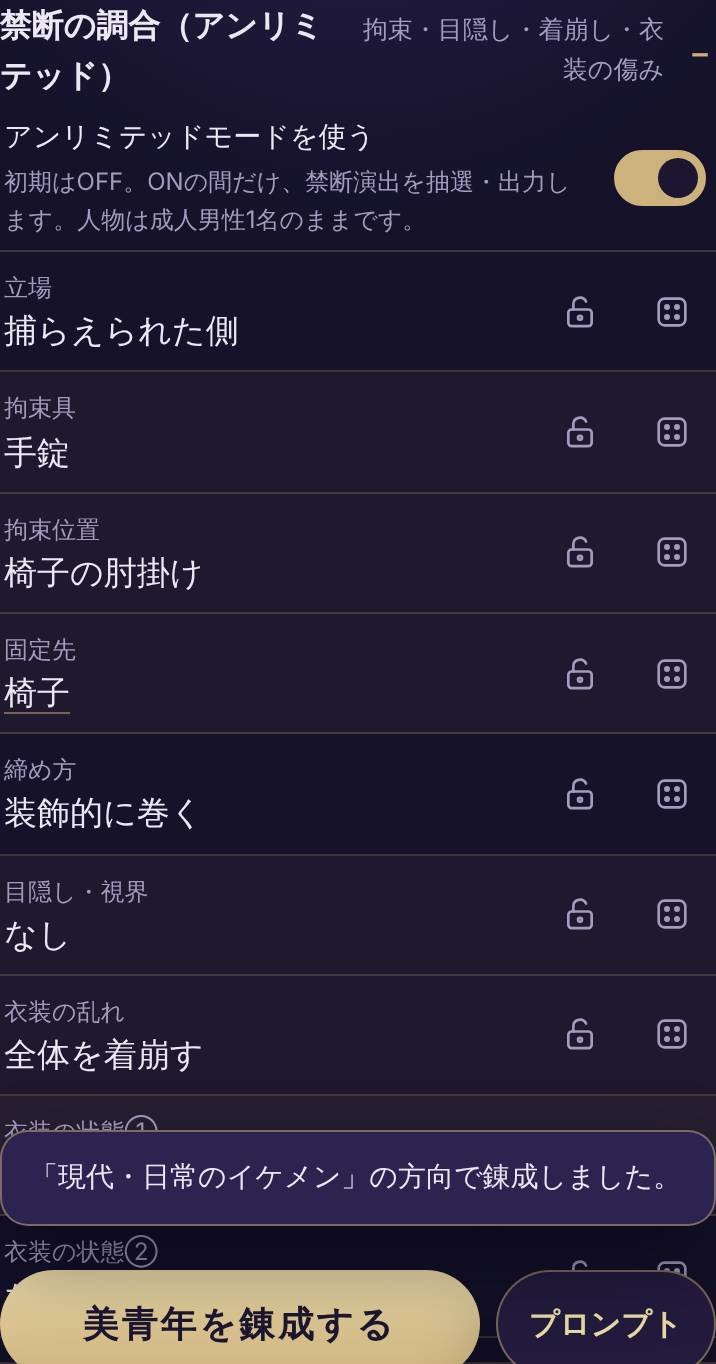
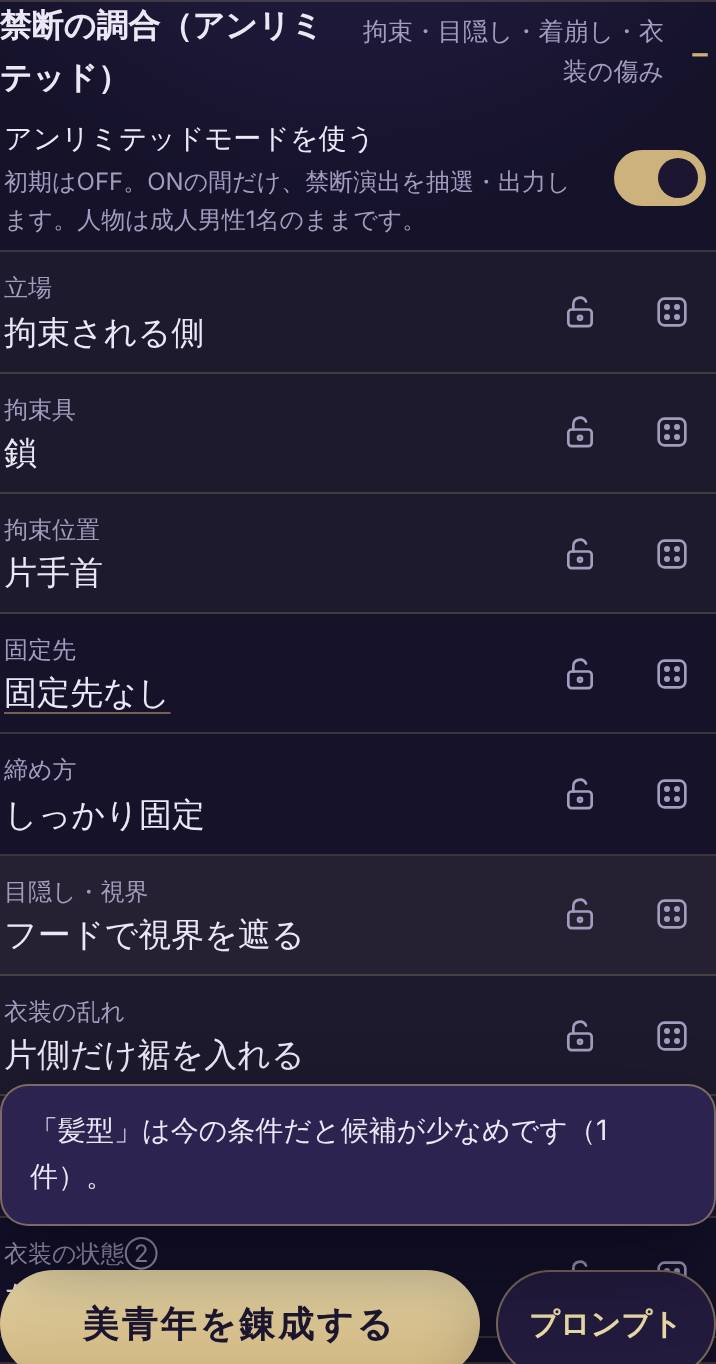
禁断の調合：膝立ち・うつ伏せの拘束構図、腹がのぞく着崩し、屋内限定と素材の混在防止
- 拘束構図に膝立ち4種・うつ伏せ3種（ポーズ構図工房の膝立ち・lying prone を参考）。構図は複数の拘束位置に対応
- 着崩しに「裾から腹がちらり」「下のボタンが外れて腹がのぞく」「腕を上げて服がずり上がる」（腕を上げるポーズのときだけ）
- 頭上で吊る拘束・頭上の固定具は屋内かシンプル背景だけ
- 衣装の鎖・ハーネス類と別の拘束具を同時に選ばない。ネガティブに選ばなかった素材を入れ、正の側に one clear restraint setup
- 先読みを着崩し・表情→ポーズにも広げ、ポーズが決まらない抽選をなくした。テスト171件

Claude-Session: https://claude.ai/code/session_015Hxd36561ZqUmFyAM3FPr5

diff --git a/src/data/forbidden.ts b/src/data/forbidden.ts
@@ -113,7 +113,11 @@ export const DISARRAY: Option[] = [
   d('coat_open', 'コートを開ける', 'coat worn open', 'f_coat'),
   d('layer_open', '一枚を開いたまま', 'one layer hanging open', 'f_layered'),
   d('hood_up', 'フードを被る', 'hood up', 'f_hood'),
-  d('disheveled', '全体を着崩す', 'disheveled clothes', '')
+  d('disheveled', '全体を着崩す', 'disheveled clothes', ''),
+  // 腹がちらりと見える（露出はここまで。f_top は裾のある上衣）
+  d('midriff_peek', '裾から腹がちらり', 'midriff peek', 'f_top'),
+  d('bottom_unbuttoned', '下のボタンが外れて腹がのぞく', 'bottom buttons undone, midriff peek', 'f_shirt'),
+  d('riding_up', '腕を上げて服がずり上がる', 'shirt riding up, midriff peek', 'f_top', { tags: ['arms_up'] })
 ];
 
 // ---------------- 衣装の状態・加工（最大2件） ----------------
@@ -153,16 +157,25 @@ export const WEAR_CATS: Category[] = [{ id: 'dirt', ja: '汚れ' }, { id: 'damag
 
 // ---------------- 拘束の構図（ポーズに追加。拘束位置を hard 条件にする）----------------
 // 姿勢の句だけを持ち、拘束の描写は拘束位置・拘束具の側で出す（重複させない）。
-export const BOUND_POSES = [
-  { id: 'bound_front_stand', ja: '両手首を前で縛られて立つ', en: 'standing, looking at viewer', posture: 'standing', minShot: 2, gaze: true, bind: 'wrists_front' },
-  { id: 'bound_behind_lookback', ja: '後ろ手に縛られ、肩越しに振り返る', en: 'from behind, looking back over shoulder', posture: 'standing', minShot: 2, gaze: true, bind: 'wrists_behind' },
-  { id: 'bound_front_kneel', ja: '両手首を前で縛られて膝立ち', en: 'kneeling, on knees, bound hands resting near the lap', posture: 'kneeling', minShot: 3, gaze: true, bind: 'wrists_front' },
-  { id: 'bound_chair', ja: '椅子に座り、両手首を肘掛けへ固定', en: 'sitting on chair, both hands and both armrests clearly visible', posture: 'sitting', minShot: 3, gaze: true, bind: 'armrests' },
-  { id: 'wall_chain_lookback', ja: '片手首を壁へつながれて振り返る', en: 'looking back, restrained hand raised toward the wall', posture: 'standing', minShot: 2, gaze: true, bind: 'one_wrist' },
-  { id: 'bound_overhead_stand', ja: '両手首を頭上で固定されて立つ', en: 'standing, arms up', posture: 'standing', minShot: 2, gaze: true, bind: 'wrists_overhead' },
-  { id: 'ankles_floor', ja: '足首を縛られて床に座る', en: 'sitting on floor, knees up', posture: 'sitting', minShot: 4, gaze: true, bind: 'ankles' },
-  { id: 'chain_torso_stand', ja: '腕と胴体へ緩く巻いた演出的な立ち姿', en: 'standing, dramatic pose', posture: 'standing', minShot: 2, gaze: true, bind: 'torso_arms' }
-] as const;
+export const BOUND_POSES: Array<{ id: string; ja: string; en: string; posture: string; minShot: number; gaze: boolean; bind: string[]; armsUp?: boolean }> = [
+  { id: 'bound_front_stand', ja: '両手首を前で縛られて立つ', en: 'standing, looking at viewer', posture: 'standing', minShot: 2, gaze: true, bind: ['wrists_front'] },
+  { id: 'bound_behind_lookback', ja: '後ろ手に縛られ、肩越しに振り返る', en: 'from behind, looking back over shoulder', posture: 'standing', minShot: 2, gaze: true, bind: ['wrists_behind'] },
+  { id: 'bound_front_kneel', ja: '両手首を前で縛られて膝立ち', en: 'kneeling, on knees, bound hands resting near the lap', posture: 'kneeling', minShot: 3, gaze: true, bind: ['wrists_front'] },
+  { id: 'bound_chair', ja: '椅子に座り、両手首を肘掛けへ固定', en: 'sitting on chair, both hands and both armrests clearly visible', posture: 'sitting', minShot: 3, gaze: true, bind: ['armrests'] },
+  { id: 'wall_chain_lookback', ja: '片手首を壁へつながれて振り返る', en: 'looking back, restrained hand raised toward the wall', posture: 'standing', minShot: 2, gaze: true, bind: ['one_wrist'] },
+  { id: 'bound_overhead_stand', ja: '両手首を頭上で固定されて立つ', en: 'standing, arms up', posture: 'standing', minShot: 2, gaze: true, bind: ['wrists_overhead'], armsUp: true },
+  { id: 'ankles_floor', ja: '足首を縛られて床に座る', en: 'sitting on floor, knees up', posture: 'sitting', minShot: 4, gaze: true, bind: ['ankles'] },
+  { id: 'chain_torso_stand', ja: '腕と胴体へ緩く巻いた演出的な立ち姿', en: 'standing, dramatic pose', posture: 'standing', minShot: 2, gaze: true, bind: ['torso_arms'] },
+  // 膝立ち（ポーズ構図工房の「膝立ち：上体を両膝の上に起こす」を参考）
+  { id: 'kneel_behind', ja: '後ろ手に縛られて膝立ち', en: 'upright kneeling posture, torso lifted above both knees, looking at viewer', posture: 'kneeling', minShot: 3, gaze: true, bind: ['wrists_behind'] },
+  { id: 'kneel_overhead', ja: '両手首を頭上で吊られて膝立ち', en: 'upright kneeling posture, arms raised above the head, both knees on the floor', posture: 'kneeling', minShot: 3, gaze: true, bind: ['wrists_overhead'], armsUp: true },
+  { id: 'kneel_look_up', ja: '膝をつき、縛られたまま見上げる', en: 'kneeling, looking up at viewer', posture: 'kneeling', minShot: 2, gaze: true, bind: ['wrists_front', 'wrists_behind', 'torso_arms'] },
+  { id: 'kneel_head_down', ja: '膝をつき、縛られて項垂れる', en: 'kneeling, sitting on heels, head lowered, hair falling forward', posture: 'kneeling', minShot: 3, gaze: false, bind: ['wrists_front', 'wrists_behind', 'torso_arms'] },
+  // うつ伏せ（ポーズ構図工房の lying prone を参考。縛った腕では上体を支えない）
+  { id: 'prone_behind', ja: '後ろ手に縛られてうつ伏せ', en: 'lying prone, on stomach, cheek near the floor, head turned toward viewer', posture: 'lying', minShot: 4, gaze: true, bind: ['wrists_behind'] },
+  { id: 'prone_reach', ja: 'うつ伏せで、縛られた両手を前へ投げ出す', en: 'lying prone, on stomach, bound hands stretched forward on the floor, head raised', posture: 'lying', minShot: 3, gaze: true, bind: ['wrists_front'] },
+  { id: 'prone_ankles', ja: '足首を縛られ、うつ伏せで肘をつく', en: 'lying prone, on stomach, propped up on elbows', posture: 'lying', minShot: 4, gaze: true, bind: ['ankles'] }
+];
 
 // ---------------- 表情（立場に合わせて追加。立場がOFF＝なしでは出ない）----------------
 export const FORBIDDEN_EXPRESSIONS: Array<{ id: string; ja: string; en: string; side: 'captive' | 'captor' }> = [

diff --git a/src/prompts/build.ts b/src/prompts/build.ts
@@ -70,6 +70,11 @@ const EYE_WORDS = /\b(eyes?|[a-z]+-eyed|eyelash(es)?|lashes|eyelids?|sanpaku|jit
 /** 目隠しの句そのもの（外さない） */
 const OWN_EYE = /(blindfold|over (the |one )?eyes?|closed eyes|downcast eyes)/i;
 const BOUND_NEGATIVE = ['blood', 'wounds', 'bruises', 'restraints around neck', 'extra hands', 'missing fingers', 'fused fingers'];
+/** 拘束具の素材どうしが混ざらないよう、選ばなかった素材をネガティブに入れる */
+const MATERIAL_NEGATIVE: Array<[RegExp, string]> = [
+  [/^(rope|silk_cord)$/, 'rope'], [/chain/, 'chains'], [/^cuffs$/, 'handcuffs'], [/^straps$/, 'leather straps'], [/^ribbon$/, 'ribbon'],
+  [/^bandage$/, 'bandages'], [/tentacles/, 'tentacles'], [/vines/, 'vines']
+];
 export interface ForbiddenParts {
   on: boolean; tags: string[]; outfitTags: string[]; restraintNat: string; blindNat: string; clothesNat: string;
   hideEyes: boolean; stripGaze: boolean; negative: string[]; jaRows: Array<[string, string]>; jaProse: string;
@@ -92,7 +97,7 @@ export function forbiddenParts(state: ForgeState, v: ReturnType<typeof valuesOf>
     const anchor = set(a) && !(a!.id === 'chair' && b!.id === 'armrests') ? a!.en : [];
     restraintTags.push(...b!.en, material, ...(t ? t.en : []), ...anchor);
     if (r!.tags?.includes('chain')) restraintTags.push('chain links clearly visible');
-    restraintTags.push('clean uninjured skin');
+    restraintTags.push('one clear restraint setup', 'clean uninjured skin');
     restraintNat = `${cap(b!.en.join(', '))}, with ${material}${t ? `, ${t.en.join(', ')}` : ''}${anchor.length ? `, ${anchor.join(', ')}` : ''}.`;
   }
   const blind = set(f) ? f!.en : [];
@@ -110,7 +115,7 @@ export function forbiddenParts(state: ForgeState, v: ReturnType<typeof valuesOf>
     on: true, tags: dedupe([...role, ...restraintTags, ...blind]), outfitTags: dedupe(clothes), restraintNat,
     blindNat: blind.length ? `${f?.tags?.includes('covered') ? 'His eyes are hidden by' : 'He has'} ${joinNat(blind)}.` : '',
     clothesNat: clothes.length ? `Clothing details: ${joinNat(clothes)}.` : '',
-    hideEyes, stripGaze, negative: bound ? BOUND_NEGATIVE : [], jaRows, jaProse: proseBits.length ? `禁断演出：${proseBits.join('、')}。` : ''
+    hideEyes, stripGaze, negative: set(r) ? [...(bound ? BOUND_NEGATIVE : []), ...MATERIAL_NEGATIVE.filter(([re]) => !re.test(r!.id) && !(r!.tags?.includes('chain') && re.source === 'chain')).map(([, w]) => w)] : [], jaRows, jaProse: proseBits.length ? `禁断演出：${proseBits.join('、')}。` : ''
   };
 }
 
@@ -243,7 +248,9 @@ export function buildPrompt(state: ForgeState, target: OutputTarget = state.sett
     compact = `【${titleOf(state)}】${japanese}`;
   }
 
-  const negBase = [...NEGATIVE_BASE, ...fb.negative];
+  // 正のプロンプトに出ている語（髪のリボン・絆創膏など）は、ネガティブに入れない
+  const posLower = positive.toLowerCase();
+  const negBase = [...NEGATIVE_BASE, ...fb.negative.filter((w) => !posLower.includes(w.split(' ').pop()!.replace(/s$/, '')))];
   const negative = S.negative && target !== 'japanese' && target !== 'naturalEnglish' ? negBase.join(', ')
     : S.negative && target === 'naturalEnglish' ? `Avoid: ${negBase.join(', ')}.` : '';
 

diff --git a/tests/engine.test.ts b/tests/engine.test.ts
@@ -435,11 +435,16 @@ describe('禁断の調合（アンリミテッドモード）', () => {
         const captorOnly = role.tags?.includes('captor') && !role.tags?.includes('captive');
         if (captorOnly) expect(['none', 'held']).toContain(b.id);
         if (v.restraint!.id === 'none') expect(b.id).toBe('none');
-        if (p.tags?.includes('bound')) expect(p.requires).toContain(`bindPos:${b.id}`);
+        if (p.tags?.includes('bound')) expect(p.requires![0].replace('bindPos:', '').split('|')).toContain(b.id);
         if (v.disarray!.id === 'tie_loosened') expect(v.outfit!.tags).toContain('tie');
         if (v.wear1!.cat === 'wet') expect(v.wear2!.cat).not.toBe('wet');
         if (v.wear2!.id !== 'none') expect(v.wear1!.id).not.toBe('none');
         if (v.blindfold!.tags?.includes('covered')) expect(v.glasses?.id ?? 'none').toBe('none');
+        if (v.bindPos!.id === 'wrists_overhead' || v.anchor!.id === 'overhead') expect(['indoor', 'simple'], `${mode}#${i} ${v.scene!.id}`).toContain(v.scene!.place);
+        if (v.restraint!.id !== 'none' && v.outfit!.tags?.includes('f_chain')) expect(v.restraint!.tags).toContain('chain');
+        if (v.restraint!.id !== 'none' && v.outfit!.tags?.includes('f_strap')) expect(v.restraint!.id).toBe('straps');
+        if (v.disarray!.id === 'riding_up') expect(v.pose!.tags).toContain('arms_up');
+        expect(r.stuck, `${mode}#${i}`).toEqual([]);
       }
     }
   });
@@ -453,6 +458,14 @@ describe('禁断の調合（アンリミテッドモード）', () => {
     }
     expect(bound).toBeGreaterThan(25);
     expect(captiveExpr).toBeGreaterThan(30);
+  });
+  it('膝立ち・うつ伏せの拘束ポーズは、対応する拘束位置で出る', () => {
+    const seen = new Set<string>();
+    for (const [bind, poses] of [['wrists_behind', ['kneel_behind', 'prone_behind', 'kneel_look_up', 'kneel_head_down']], ['wrists_overhead', ['kneel_overhead']], ['wrists_front', ['prone_reach']], ['ankles', ['prone_ankles']]] as const) {
+      let s = set(set(set(onState('kp-' + bind), 'role', 'captive'), 'restraint', 'rope'), 'bindPos', bind);
+      for (let i = 0; i < 120; i++) { s = draw(s, { seed: `kp-${bind}-${i}` }).state; seen.add(s.fields.pose.id!); }
+      for (const p of poses) expect(seen.has(p), `${bind}:${p}`).toBe(true);
+    }
   });
   it('「禁断演出だけ引き直す」は、他の項目（髪・衣装・美形タイプ）を変えない', () => {
     const s = onState('fb-group');

diff --git a/src/advisor/hard.ts b/src/advisor/hard.ts
@@ -142,10 +142,33 @@ export const PAIR_RULES: PairRule[] = [
     check: ({ anchor: a, pose: p }) => {
       if (!a || !p || a.id === 'none') return null;
       if (a.id === 'chair' && !CHAIR_POSES.has(p.id)) return `椅子に固定したまま「${p.ja}」はできません`;
-      if (a.id === 'overhead' && p.posture !== 'standing') return `頭上の固定具につながれたまま「${p.ja}」はできません`;
+      if (a.id === 'overhead' && !['standing', 'kneeling'].includes(p.posture ?? '')) return `頭上の固定具につながれたまま「${p.ja}」はできません`;
       if (['wall', 'pillar'].includes(a.id) && ['walking', 'running', 'jumping', 'floating'].includes(p.posture ?? '')) return `${a.ja}につながれたまま「${p.ja}」はできません`;
       return null;
     }
+  },
+  {
+    // 上から吊る拘束は、天井や梁のある屋内（またはシンプル背景）だけ
+    id: 'bind_scene', fields: ['bindPos', 'scene'],
+    check: ({ bindPos: b, scene: s }) => (b && s && b.id === 'wrists_overhead' && !['indoor', 'simple'].includes(s.place ?? '') ? `頭上での拘束は屋内の背景だけです（現在：${s.ja}）` : null)
+  },
+  {
+    id: 'anchor_scene', fields: ['anchor', 'scene'],
+    check: ({ anchor: a, scene: s }) => (a && s && a.id === 'overhead' && !['indoor', 'simple'].includes(s.place ?? '') ? `頭上の固定具は屋内の背景だけです（現在：${s.ja}）` : null)
+  },
+  {
+    // 衣装の鎖・ハーネスと別の拘束具が同時に描かれて混ざらないように
+    id: 'restraint_outfit', fields: ['restraint', 'outfit'],
+    check: ({ restraint: r, outfit: o }) => {
+      if (!r || !o || r.id === 'none') return null;
+      if (has(o, 'f_chain') && !has(r, 'chain')) return `衣装「${o.ja}」の鎖と、拘束具「${r.ja}」が混ざります`;
+      if (has(o, 'f_strap') && r.id !== 'straps') return `衣装「${o.ja}」のベルト類と、拘束具「${r.ja}」が混ざります`;
+      return null;
+    }
+  },
+  {
+    id: 'disarray_pose', fields: ['disarray', 'pose'],
+    check: ({ disarray: d, pose: p }) => (d && p && has(d, 'arms_up') && !has(p, 'arms_up') ? `「${d.ja}」は腕を上げるポーズのときだけです（現在：${p.ja}）` : null)
   },
   {
     id: 'blind_glasses', fields: ['blindfold', 'glasses'],

diff --git a/src/data/pose.ts b/src/data/pose.ts
@@ -39,7 +39,7 @@ export const POSE: Option[] = [
   p('pointing', 'こちらを指差す', 'pointing at viewer', 'standing', 1, 1, true, ['confident', 'playful']),
   p('beckoning', '手招き', 'beckoning, looking at viewer', 'standing', 1, 2, true, ['alluring', 'playful']),
   p('waving', '手を振る', 'waving, smile, looking at viewer', 'standing', 1, 2, true, ['sunny', 'casual']),
-  p('stretching', '伸びをする', 'stretching, arms up', 'standing', 0, 2, false, ['casual', 'sunny'], { src: 'pcw:arms_up' }),
+  p('stretching', '伸びをする', 'stretching, arms up', 'standing', 0, 2, false, ['casual', 'sunny', 'arms_up'], { src: 'pcw:arms_up' }),
   p('looking_back', '肩越しに振り返る', 'looking back, looking at viewer over shoulder', 'standing', 2, 1, true, ['elegant', 'mystic'], { src: 'pcw:walk_turn' }),
   p('back_turned', '背を向けて佇む', 'from behind, facing away', 'standing', 2, 2, false, ['aloof', 'melancholy']),
   p('side_profile', '横顔', 'profile, looking afar', 'standing', 2, 0, false, ['melancholy', 'cool'], { src: 'pcw:side' }),
@@ -85,7 +85,7 @@ export const POSE: Option[] = [
   p('playing_music', '楽器を奏でる', 'playing instrument', 'standing', 2, 2, false, ['artist', 'elegant'], { requires: ['prop:#instrument'] }),
   p('aiming', '銃を構える', 'aiming at viewer', 'standing', 2, 2, true, ['danger', 'dynamic'], { requires: ['prop:#gun'] }),
   // 禁断の調合：拘束の構図（拘束位置を hard 条件にするので、アンリミテッドモードOFFでは出ない）。手は塞がっているので持ち物なし
-  ...BOUND_POSES.map((b) => p(b.id, b.ja, b.en, b.posture, 0, b.minShot as ShotLevel, b.gaze, ['bound'], { cat: 'bound', requires: [`bindPos:${b.bind}`] })),
+  ...BOUND_POSES.map((b) => p(b.id, b.ja, b.en, b.posture, 0, b.minShot as ShotLevel, b.gaze, ['bound', ...(b.armsUp ? ['arms_up'] : [])], { cat: 'bound', requires: [`bindPos:${b.bind.join('|')}`] })),
 ];
 export const POSE_CATS: Category[] = [
   { id: 'standing', ja: '立ち' }, { id: 'leaning', ja: 'もたれる' }, { id: 'sitting', ja: '座る' }, { id: 'crouching', ja: 'しゃがむ' },

diff --git a/src/ui/HelpView.tsx b/src/ui/HelpView.tsx
@@ -31,7 +31,7 @@ export function HelpView() {
       <p>{STYLE_PRESETS.map((p) => p.ja).join('、')}。上の分類（現代・日常／幻想・世界観／美形・雰囲気／外見特集）で絞り込めます。選んだだけでは今の結果は変わりません。「この方向で錬成」で反映されます。</p>
 
       <h3>禁断の調合（アンリミテッドモード）</h3>
-      <p>初期はOFFです。「詳細な調合」の「禁断の調合」でONにすると、立場・拘束具・拘束位置・固定先・締め方・目隠し・衣装の乱れ・衣装の状態（最大2件）を抽選して出力します。人物は成人男性1名のまま、首への拘束・負傷・露出は扱いません。目が隠れる目隠しでは、目元・瞳の色と「こちらを見る」を出力しません。OFFに戻すと、禁断演出は一切出力しません。</p>
+      <p>初期はOFFです。「詳細な調合」の「禁断の調合」でONにすると、立場・拘束具・拘束位置・固定先・締め方・目隠し・衣装の乱れ・衣装の状態（最大2件）を抽選して出力します。人物は成人男性1名のまま、首への拘束・負傷・露出は扱いません。目が隠れる目隠しでは、目元・瞳の色と「こちらを見る」を出力しません。頭上で吊る拘束は屋内（またはシンプル背景）だけ、衣装の鎖やベルト類と別の拘束具は同時に出さず、ネガティブには選ばなかった拘束具を入れて素材が混ざらないようにしています。OFFに戻すと、禁断演出は一切出力しません。</p>
 
       <h3>眼鏡・特徴・持ち物</h3>
       <p>初期はOFFで、プロンプトに出しません。使いたいときは「詳細な調合」の「顔・肌・装身具」（眼鏡・特徴）と「ポーズ・構図」（持ち物）のスイッチをONにしてください。OFFの間は、眼鏡や持ち物を前提にするポーズ（眼鏡を押し上げる・抜刀など）も出ません。</p>

diff --git a/src/engine/draw.ts b/src/engine/draw.ts
@@ -158,9 +158,9 @@ export function draw(input: ForgeState, opts: DrawOptions = {}): DrawOutcome {
 interface PickCtx { useRecent: boolean; recent: RecentMap; preset?: StylePreset; notices: string[]; strict?: boolean; pending?: Set<FieldId> }
 
 /** 1手先読み：この候補を選ぶと、まだ引いていない関連項目に両立する候補が残らない場合は外す。
- * 禁断の調合の連鎖（立場→拘束具→拘束位置→固定先→画角→ポーズ）だけに使う（他の項目は従来どおりで十分速い） */
+ * 禁断の調合の連鎖（立場→拘束具→拘束位置→固定先・着崩し・表情→画角→ポーズ）だけに使う（他の項目は従来どおりで十分速い） */
 const LOOKAHEAD: Partial<Record<FieldId, FieldId[]>> = {
-  role: ['bindPos'], restraint: ['bindPos'], bindPos: ['anchor', 'shot', 'pose', 'prop'], anchor: ['shot', 'pose'], shot: ['pose']
+  role: ['bindPos'], restraint: ['bindPos'], bindPos: ['anchor', 'shot', 'pose', 'prop'], anchor: ['shot', 'pose'], disarray: ['pose'], expression: ['pose'], shot: ['pose']
 };
 function leavesRoom(f: FieldId, o: Option, determined: Values, pending: Set<FieldId> | undefined, s: ForgeState): boolean {
   const next = LOOKAHEAD[f];

diff --git a/tests/prompts.test.ts b/tests/prompts.test.ts
@@ -226,6 +226,15 @@ describe('禁断の調合（アンリミテッドモード）', () => {
     expect(neg).toContain('restraints around neck');
     expect(buildPrompt(s, 'japanese').positive).toContain('拘束：鎖／両手首を頭上');
   });
+  it('拘束具が混ざらないよう、選ばなかった素材をネガティブに入れる（正の側に出ている語は入れない）', () => {
+    const s = on('fb-neg', { role: 'captive', restraint: 'rope', bindPos: 'wrists_front', hairStyle: 'ribbon_tied', hairLength: 'long' });
+    s.settings.negative = true;
+    const neg = buildPrompt(s, 'pixai').negative.split(', ');
+    expect(neg).toEqual(expect.arrayContaining(['chains', 'handcuffs', 'tentacles', 'vines']));
+    expect(neg).not.toContain('rope');
+    expect(neg).not.toContain('ribbon');
+    expect(buildPrompt(s, 'pixai').positive).toContain('one clear restraint setup');
+  });
   it('「する側」は拘束具を手に持つ・操る（触手は操る）', () => {
     const s = on('fb-held', { role: 'ruler', restraint: 'tentacles', bindPos: 'held', world: 'dark_fantasy' });
     expect(buildPrompt(s, 'pixai').positive).toContain('controlling tentacles');

diff --git a/src/data/outfits.ts b/src/data/outfits.ts
@@ -181,7 +181,12 @@ const FEATURES: Array<[string, RegExp]> = [
   ['f_hood', /\bhood(ie|ed)?\b/i],
   ['f_headwear', /\b(crown|tiara|circlet|hat|cap|helmet|headdress|turban|kabuto|eboshi|veil|laurel|horned)\b/i],
   ['f_layered', /\b(over a|under|layered|inner|cardigan|jacket|coat|vest|waistcoat|haori|cloak|cape)\b/i],
-  ['f_sleeveless', /\b(sleeveless|tank top|bare arms|bare chest|shirtless)\b/i]
+  ['f_sleeveless', /\b(sleeveless|tank top|bare arms|bare chest|shirtless)\b/i],
+  // 裾のある上衣（腹がちらりと見える着崩しに使う）
+  ['f_top', /\b(shirt|t-shirt|tee|hoodie|sweater|sweatshirt|knit|pullover|blouse|turtleneck|polo|tank top|crop|track jacket)\b/i],
+  // 拘束具と混ざりやすい素材（禁断の調合で、別の拘束具と同時に出さない）
+  ['f_chain', /\bchains?\b/i],
+  ['f_strap', /\b(straps|harness)\b/i]
 ];
 export const OUTFIT: Option[] = OUTFIT_BASE.map((x) => {
   const text = `${x.upper ?? ''} ${x.lower ?? ''}`;

diff --git a/docs/TEST-REPORT.md b/docs/TEST-REPORT.md
@@ -8,11 +8,11 @@
 |---|---|
 | 型検査 `npm run typecheck` | エラー 0 |
 | ESLint `npm run lint` | エラー 0・警告 0 |
-| 単体・結合・性質テスト `npm test` | **169 / 169 合格**（5ファイル、約105秒） |
+| 単体・結合・性質テスト `npm test` | **171 / 171 合格**（5ファイル、約105秒） |
 | 大量抽選 | **4,200回**（禁断の調合ONの600回を含む）：hard 違反 0・禁断演出の漏れ（OFF時）0・弾かれやすい語（adult・nsfw など）0・hard 違反 0・例外 0・美形アンカー欠落 0・女性/未成年語 0・ロック変更 0・完全重複 0 |
 | ロック競合ケース | **388件**：すべて抽選せずに衝突項目・理由・解除候補を返し、状態は不変 |
 | ブラウザ検証 `npm run test:browser` | **92 / 92 合格**（Chromium） |
-| 本番ビルド `npm run build` | 警告 0。JS 388.0 kB（gzip 124.9 kB）、CSS 16.4 kB（gzip 4.4 kB） |
+| 本番ビルド `npm run build` | 警告 0。JS 391.8 kB（gzip 126.1 kB）、CSS 16.4 kB（gzip 4.4 kB） |
 | `npm audit --omit=dev`（配信物の依存） | 脆弱性 0（Preact を 10.29.8 へ更新済み） |
 
 ## 単体・結合テストの内訳
@@ -20,8 +20,8 @@
 | ファイル | 件数 | 主な内容 |
 |---|---:|---|
 | `tests/data.test.ts` | 70 | **現代・日常の美形タイプ12種（日常着を参照・職業は指定しない・動物の部位や職業名を出力に混ぜない）、日常着8〜12種（チェーン・耳飾りなし、{c1}{c2}あり）、おまかせスタイルの分類**、辞書件数の下限（アーキタイプ100・髪色40・髪型50・瞳色30・世界観20・職業60・衣装100・ポーズ50・背景×光80）、全項目のID重複ゼロ、アーキタイプの好み・requires・職業の衣装参照・おまかせ条件・世界観参照の**無効参照ゼロ**、髪型の長さ制約、衣装のプレースホルダー、未成年・女性を示す英語と単独 `adult` が辞書にないこと、年齢層がすべて18歳以上 |
-| `tests/engine.test.ts` | 51 | **禁断の調合（既定OFFで全項目「なし」、ON時の約束を3モード×80回で検査、される側で拘束の構図・立場の表情が出やすい、禁断演出だけ引き直すで他を変えない、ONで即抽選、立場OFFでは立場の表情を選べない）**、**眼鏡・特徴・持ち物は既定OFFで「なし」扱い（眼鏡・持ち物を前提にするポーズと眼鏡の知性派が出ない）、OFFの項目を前提にする候補は手で選ぶとONを促し状態不変、ONで「なし」以外から即抽選（固定は不変）、眼鏡の知性派は眼鏡ONで必ず眼鏡、持ち物はポーズ出力時だけ有効、現代・日常スタイルの範囲、髪を名前に含むタイプの髪（固定中の別の髪なら候補外）**、同じシード＝同じ乱数列、**全ロックで1件も変わらない**、非ロック再抽選でロック不変（50回）、1項目再抽選で他が変わらない、ロック全解除で値が残る、同じ方向性／服だけ、短髪×長髪専用髪型が出ない（200回）、画角とポーズ、手の数、持ち物の要求、文化×伝統衣装、夜×日光・屋内×雨雪、獣人モードON/OFF、年齢を名に含む美形タイプ、固定どうしの矛盾で抽選しない、候補0件で元の値を保つ、手動採用時の未固定項目の追従・固定項目との衝突、**衣装を手で選ぶと自動で出た色だけ服に合わせて引き直す（固定・手動の色は不変、一覧から引く場合も同じ）**、手動値はロックしなければ変わる、一覧内抽選、シード再現（3モード）、固定シード、直近重複回避と段階的緩和、**モード間の分布差**、おまかせスタイル、群の確率下限 |
-| `tests/prompts.test.ts` | 27 | **目隠し8種×60回で顔・ポーズ・自然文に目と視線の語なし、伏し目は視線だけ外す**、**禁断の調合（OFFでは値が残っていても出力しない、目隠しで「こちらを見る」・目元・瞳の色を外す、拘束の部位・素材・固定先の結び付けと首・禁止語なし・ネガティブ補助、する側は持つ／操る、乱れと状態の出力）**、全形式に `1boy / solo / male focus / handsome`、「女性的な美形」でも男性指定、`adult` を強制挿入しない、handsome を連呼しない・重複タグなし、1boy を外す設定、**寄りの構図で下半身・靴を出さない（値は保持）**、色と衣装の結び付け、**実際に出る衣装の色の判定（画角しだい）と、出力タグ・日本語表記との一致（全衣装×全画角）**、シンプル背景で時間帯を出さない、背景OFF、獣人OFF/ON、ひげモジュール、「指定しない」を補完しない、5形式が同じ状態から作られる、ネガティブ初期OFF・別欄、品質タグ・強調・LoRA・自由タグ、内訳の分解、Markdown、自由タグの警告（重複・性別反転・未成年・人数・髪の長さ・閉じた目） |
+| `tests/engine.test.ts` | 52 | **禁断の調合（頭上の拘束は屋内だけ・衣装の鎖やベルトと別の拘束具を混ぜない・ずり上がりは腕を上げるポーズだけ・ポーズが決まらない抽選0、膝立ち・うつ伏せの構図が対応する拘束位置で出る、既定OFFで全項目「なし」、ON時の約束を3モード×80回で検査、される側で拘束の構図・立場の表情が出やすい、禁断演出だけ引き直すで他を変えない、ONで即抽選、立場OFFでは立場の表情を選べない）**、**眼鏡・特徴・持ち物は既定OFFで「なし」扱い（眼鏡・持ち物を前提にするポーズと眼鏡の知性派が出ない）、OFFの項目を前提にする候補は手で選ぶとONを促し状態不変、ONで「なし」以外から即抽選（固定は不変）、眼鏡の知性派は眼鏡ONで必ず眼鏡、持ち物はポーズ出力時だけ有効、現代・日常スタイルの範囲、髪を名前に含むタイプの髪（固定中の別の髪なら候補外）**、同じシード＝同じ乱数列、**全ロックで1件も変わらない**、非ロック再抽選でロック不変（50回）、1項目再抽選で他が変わらない、ロック全解除で値が残る、同じ方向性／服だけ、短髪×長髪専用髪型が出ない（200回）、画角とポーズ、手の数、持ち物の要求、文化×伝統衣装、夜×日光・屋内×雨雪、獣人モードON/OFF、年齢を名に含む美形タイプ、固定どうしの矛盾で抽選しない、候補0件で元の値を保つ、手動採用時の未固定項目の追従・固定項目との衝突、**衣装を手で選ぶと自動で出た色だけ服に合わせて引き直す（固定・手動の色は不変、一覧から引く場合も同じ）**、手動値はロックしなければ変わる、一覧内抽選、シード再現（3モード）、固定シード、直近重複回避と段階的緩和、**モード間の分布差**、おまかせスタイル、群の確率下限 |
+| `tests/prompts.test.ts` | 28 | **選ばなかった拘束具の素材をネガティブへ（正の側の語は除く）**、**目隠し8種×60回で顔・ポーズ・自然文に目と視線の語なし、伏し目は視線だけ外す**、**禁断の調合（OFFでは値が残っていても出力しない、目隠しで「こちらを見る」・目元・瞳の色を外す、拘束の部位・素材・固定先の結び付けと首・禁止語なし・ネガティブ補助、する側は持つ／操る、乱れと状態の出力）**、全形式に `1boy / solo / male focus / handsome`、「女性的な美形」でも男性指定、`adult` を強制挿入しない、handsome を連呼しない・重複タグなし、1boy を外す設定、**寄りの構図で下半身・靴を出さない（値は保持）**、色と衣装の結び付け、**実際に出る衣装の色の判定（画角しだい）と、出力タグ・日本語表記との一致（全衣装×全画角）**、シンプル背景で時間帯を出さない、背景OFF、獣人OFF/ON、ひげモジュール、「指定しない」を補完しない、5形式が同じ状態から作られる、ネガティブ初期OFF・別欄、品質タグ・強調・LoRA・自由タグ、内訳の分解、Markdown、自由タグの警告（重複・性別反転・未成年・人数・髪の長さ・閉じた目） |
 | `tests/storage.test.ts` | 18 | **禁断の調合のスイッチと値の共有URL往復、旧データは既定OFF**、**スイッチ導入前の保存データ（お気に入り・JSONは見た目を保ってON、自動保存は新しい既定でOFF・固定中は保護）、旧形式（v=1）共有URLの推定と新形式（v=2）の往復**、壊れたJSONで落ちない、削除済みIDの検出と再抽選対象化、旧形式（schemaVersion 0）からの移行、自動保存、お気に入りCRUD、**300件の保存と上限超過の理由**、履歴50件、容量不足で例外にしない、全削除、**JSON書き出し→全削除→読み込みで固定・手動状態ごと復元**、重複取り込みしない、不正ファイル拒否（空・壊れ・他アプリ・5MB超・未知の種類）、共有URL（自由入力を含めない）、**iOS向けコピー退避**（Clipboard API→execCommand→手動コピー欄） |
 | `tests/mass-draw.test.ts` | 3 | 下記 |
 
@@ -94,4 +94,4 @@ hard ルールから矛盾する候補の組を機械的に列挙し、両方を
 - Google Fonts（Shippori Mincho）は検証環境では取得できず、システム明朝で表示した状態を確認した。
 - PixAI・NovelAI での実際の生成結果は検証していない（画像生成はこのアプリの範囲外）。新しい美形タイプ12種も、プロンプトの組み合わせ（各タイプ×3モード×10シード＝360件で、動物の部位・髪の長さの重複・hard 違反がないこと、各5例の目視）までを確認した。
 - 開発用依存（vitest・typescript-eslint 配下）に `npm audit` の指摘が残る。配信物には含まれない。
-- **公開状況**：GitHub Actions（型検査・lint・テスト169件・ビルド）が成功し、`gh-pages` へ反映。GitHub の deployment status は `success`（`https://nyuriwossan.github.io/bishounen-prompt-gacha/`）。`gh-pages` の配信ファイル5点は、上記ブラウザ検証に使ったビルドとハッシュが一致することを確認した。ただし、この作業環境からは github.io に接続できないため、**公開URLを直接開いての表示確認は未実施**。
+- **公開状況**：GitHub Actions（型検査・lint・テスト171件・ビルド）が成功し、`gh-pages` へ反映。GitHub の deployment status は `success`（`https://nyuriwossan.github.io/bishounen-prompt-gacha/`）。`gh-pages` の配信ファイル5点は、上記ブラウザ検証に使ったビルドとハッシュが一致することを確認した。ただし、この作業環境からは github.io に接続できないため、**公開URLを直接開いての表示確認は未実施**。

diff --git a/docs/DATA-CATALOG.md b/docs/DATA-CATALOG.md
@@ -14,7 +14,7 @@
 | 世界観・派生舞台 | 20種類以上 | 26（＋文化モチーフ21） |
 | 職業・立場 | 60種以上 | 95 |
 | 男性キャラ向け衣装セット | 100種以上 | 142（配色128色×差し色） |
-| ポーズ・構図プリセット | 50種以上 | ポーズ73・画角7・アングル7・持ち物38 |
+| ポーズ・構図プリセット | 50種以上 | ポーズ80・画角7・アングル7・持ち物38 |
 | 背景・照明組み合わせ | 80種以上 | 背景86（空間72・シンプル/抽象14）× 光21 × 時間帯・天候16（hard 制約で成立しない組み合わせは除外） |
 | おまかせスタイル | 10〜25種 | 22 |
 
@@ -48,7 +48,7 @@
 | 差し色 | `accentColor` | 詳細：役割 | 128 | 14 | 衣装工房 128 |
 | 構図（画角） | `shot` | 詳細：ポーズ | 7 | — | ポーズ工房 7 |
 | アングル | `angle` | 詳細：ポーズ（pose） | 7 | — | ポーズ工房 5、新規 2 |
-| ポーズ | `pose` | 詳細：ポーズ（pose） | 73 | 11 | ポーズ工房 25、新規 48 |
+| ポーズ | `pose` | 詳細：ポーズ（pose） | 80 | 11 | ポーズ工房 25、新規 55 |
 | 持ち物 | `prop` | 詳細：ポーズ（prop） | 39 | — | 新規 39 |
 | 背景 | `scene` | 詳細：背景（background） | 86 | 15 | 背景工房 39、新規 47 |
 | 時間帯・天候 | `time` | 詳細：背景（background） | 16 | — | 背景工房 13、新規 3 |
@@ -61,13 +61,13 @@
 | 固定先 | `anchor` | 任意：禁断の調合（unlimited） | 5 | — | 新規 5 |
 | 締め方 | `tightness` | 任意：禁断の調合（unlimited） | 3 | — | 新規 3 |
 | 目隠し・視界 | `blindfold` | 任意：禁断の調合（unlimited） | 13 | — | 新規 13 |
-| 衣装の乱れ | `disarray` | 任意：禁断の調合（unlimited） | 14 | — | 新規 14 |
+| 衣装の乱れ | `disarray` | 任意：禁断の調合（unlimited） | 17 | — | 新規 17 |
 | 衣装の状態① | `wear1` | 任意：禁断の調合（unlimited） | 28 | 3 | 新規 28 |
 | 衣装の状態② | `wear2` | 任意：禁断の調合（unlimited） | 28 | 3 | 新規 28 |
 | 画風 | `artStyle` | 任意：画風・名前 | 9 | — | 新規 9 |
 | 呼び名 | `name` | 任意：画風・名前（name） | 224 | 6 | OCメーカー 224 |
 
-合計 1693 候補（髪色・配色は複数項目で共有するため重複計上を含む）。「新規」には既存工房の語彙を参考に再構成したものを含む（詳細は SOURCE-AUDIT.md）。
+合計 1703 候補（髪色・配色は複数項目で共有するため重複計上を含む）。「新規」には既存工房の語彙を参考に再構成したものを含む（詳細は SOURCE-AUDIT.md）。
 
 ## 美形アーキタイプの分類
 

diff --git a/docs/HANDOFF.md b/docs/HANDOFF.md
@@ -26,7 +26,7 @@ Claude-Session: https://claude.ai/code/session_015Hxd36561ZqUmFyAM3FPr5
 ## 2. 作業の流れ（変更するたびに実施）
 
 ```bash
-npm run typecheck && npm run lint && npm test   # 169件、約105秒
+npm run typecheck && npm run lint && npm test   # 171件、約105秒
 npm run build
 npm run test:browser                            # 92項目。docs/screenshots と browser-report.json も更新される
 git add -A && git commit && git push origin main  # 公開は CI が自動で行う
@@ -142,6 +142,7 @@ ChatGPT の指示書（立場・拘束具・拘束位置・固定先・締め方
 - エンジン：禁断の連鎖（立場→拘束具→拘束位置→固定先→画角→ポーズ・持ち物）だけ1手先読み（`LOOKAHEAD`）。手動採用で直接の衝突項目だけで直せないときは、関連の関連まで広げてシードを変えて最大8回試す。
 - 出力：目が隠れる目隠しと「目を閉じる」では、目元・瞳の色・目と視線の語（美形タイプ・顔立ち・表情・ポーズの英語、自然文の句も含む）を外す（`eyeSafe` / `eyeSafeNat`）。日本語設定の目元・瞳の行と説明文も伏せる。「伏し目」は視線の語だけ外し、目の色は残す。髪型の `hair over one eye` などは髪の描写なので残している。拘束時は `clean uninjured skin` と、ネガティブ（ONのとき）に `blood, wounds, bruises, restraints around neck` など。`adult`・`nsfw`・`bondage` などは出さない（大量抽選で検査）。
 - UI：「禁断の調合（アンリミテッド）」のトグル。ONのときだけ9項目と「禁断演出だけ引き直す」（`GROUPS.forbidden`）を表示。共有URLのフラグ `u`。
+- 追加（同日）：膝立ち4種・うつ伏せ3種の拘束構図（`BOUND_POSES` の `bind` は配列で複数の拘束位置に対応）、腹がちらりと見える着崩し3種（`f_top` が必要、「ずり上がる」は腕を上げるポーズ `arms_up` のときだけ）。頭上の拘束・固定具は屋内かシンプル背景だけ（`bind_scene` / `anchor_scene`）。衣装に鎖・ハーネス類（`f_chain` / `f_strap`）があると別の拘束具は選ばない（`restraint_outfit`）。ネガティブに選ばなかった素材（正の側に出ている語は除く）と、正の側に `one clear restraint setup`。先読みを着崩し・表情→ポーズにも広げ、ポーズが決まらない抽選を0にした。
 - 画像での見え方（触手・リボンの巻き方など）は未確認。PixAI アプリ版で弾かれる語の一覧は公開されていないため、ユーザーの実機確認に頼る。
 
 ## 7. 既知の制限
